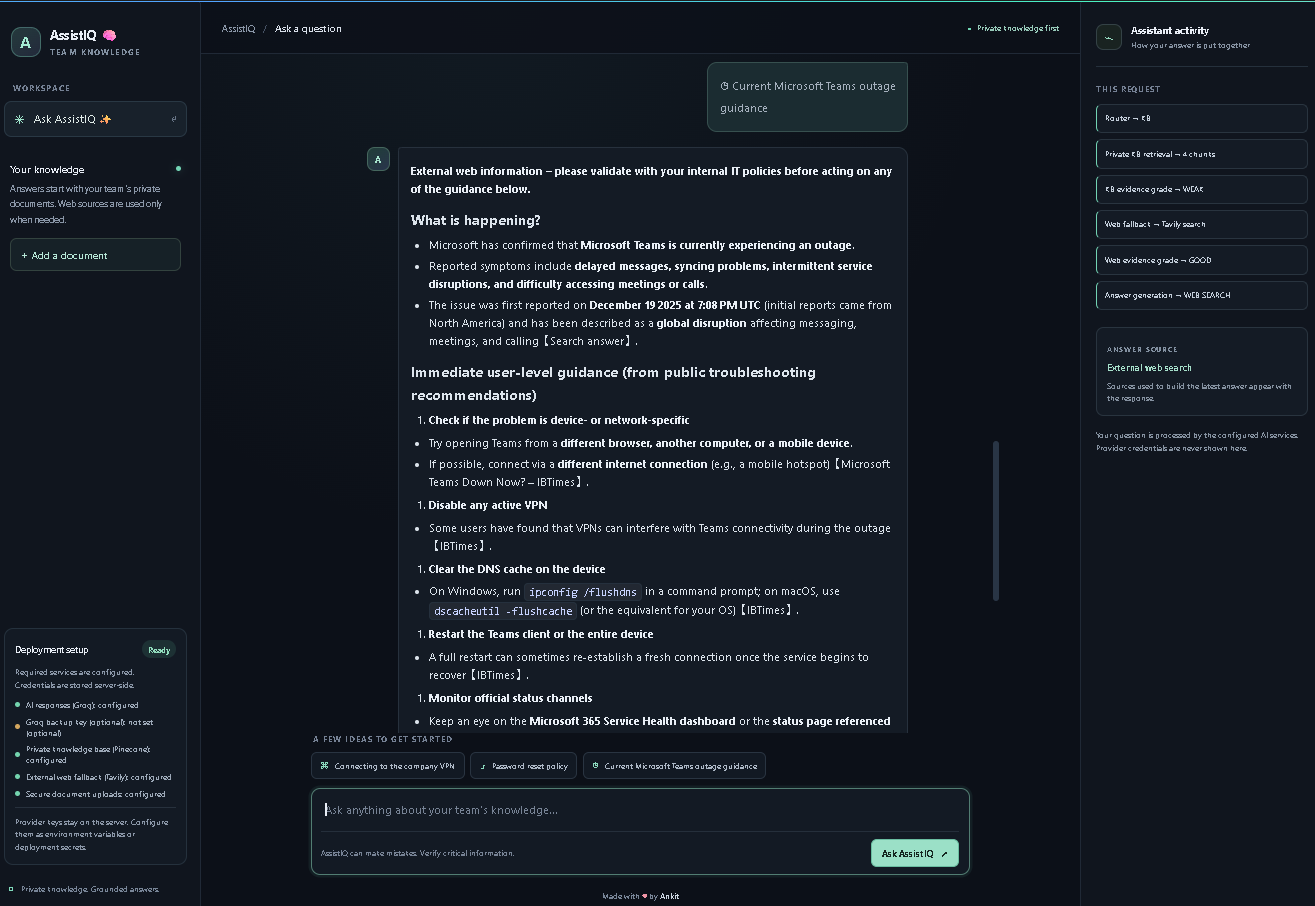
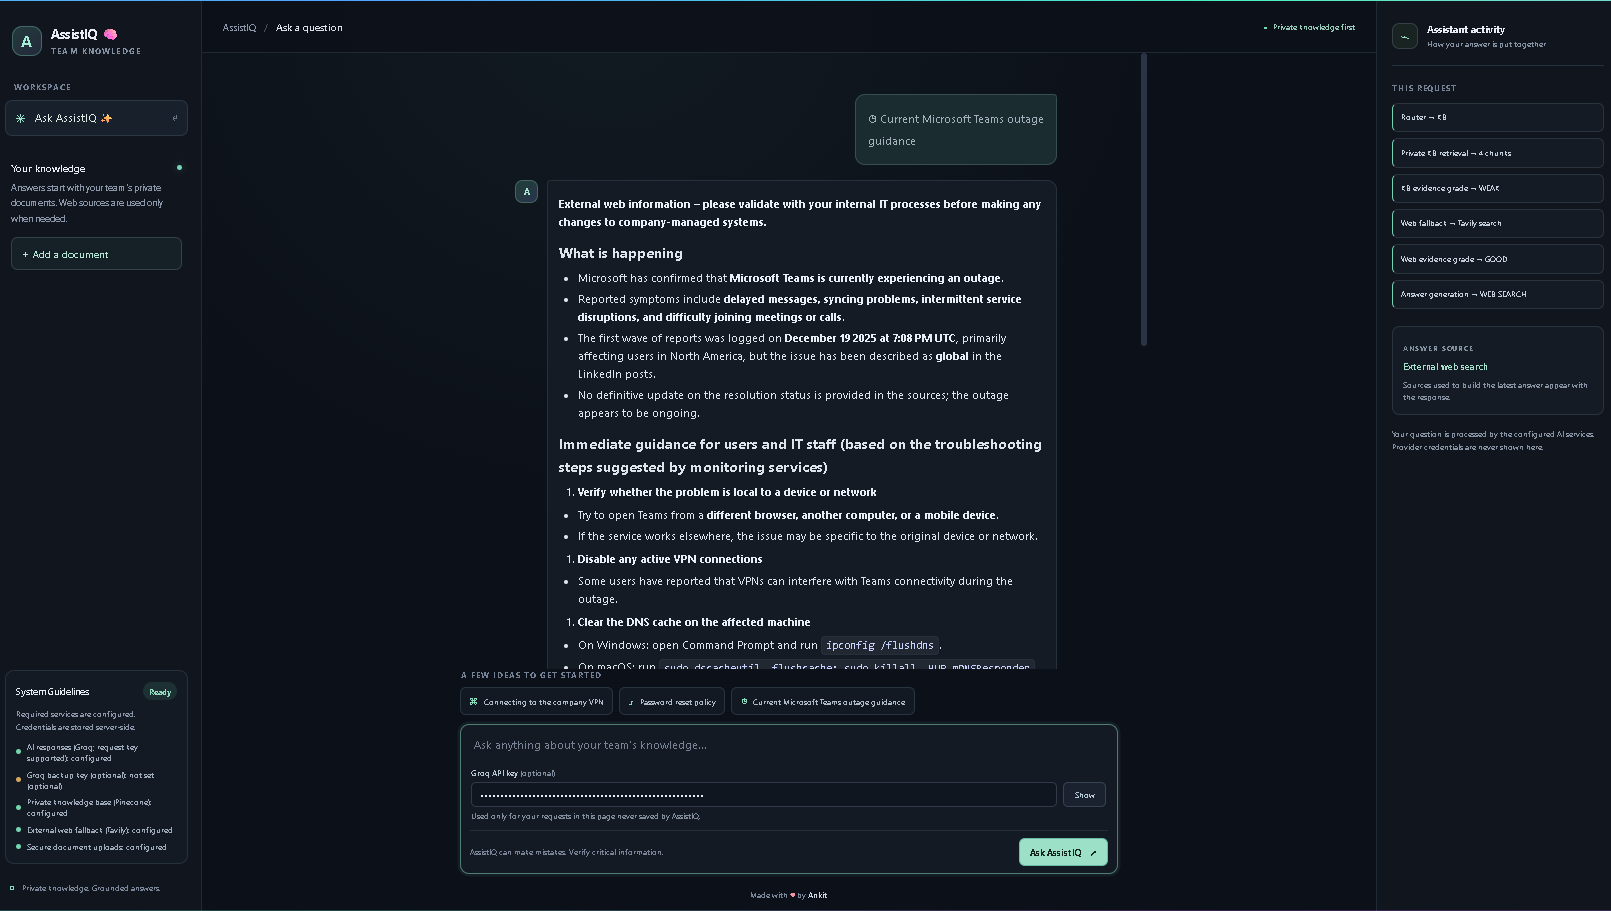
HR Assistent System ✅

diff --git a/ui/templates/index.html b/ui/templates/index.html
@@ -78,8 +78,7 @@
           <div class="welcome-eyebrow"><span class="welcome-spark" aria-hidden="true">✳</span> YOUR TEAM'S KNOWLEDGE,
             MADE USEFUL</div>
           <h1>How can I help<br />you today?</h1>
-          <p class="welcome-copy">Ask a question about your team's policies, tools, or processes. AssistIQ looks for a
-            grounded answer in your private knowledge first.</p>
+          <p class="welcome-copy">Ask a question about your team's policies, tools, or processes.</p>
           <div class="welcome-note"><span class="note-icon" aria-hidden="true">↳</span><span>Answers include their
               source. If the knowledge base doesn't have enough detail, AssistIQ can search the web.</span></div>
         </div>
@@ -109,7 +108,7 @@
             <label for="groqApiKey">Groq API key <span>(optional)</span></label>
             <div class="api-key-control">
               <input id="groqApiKey" type="password" maxlength="512" autocomplete="off" spellcheck="false"
-                placeholder="enter groq key" />
+                placeholder="enter yuor groq key" />
               <button id="toggleGroqKey" type="button" aria-label="Show Groq API key" aria-pressed="false">Show</button>
             </div>
             <p>Used only for your requests in this page never saved by AssistIQ.</p>
